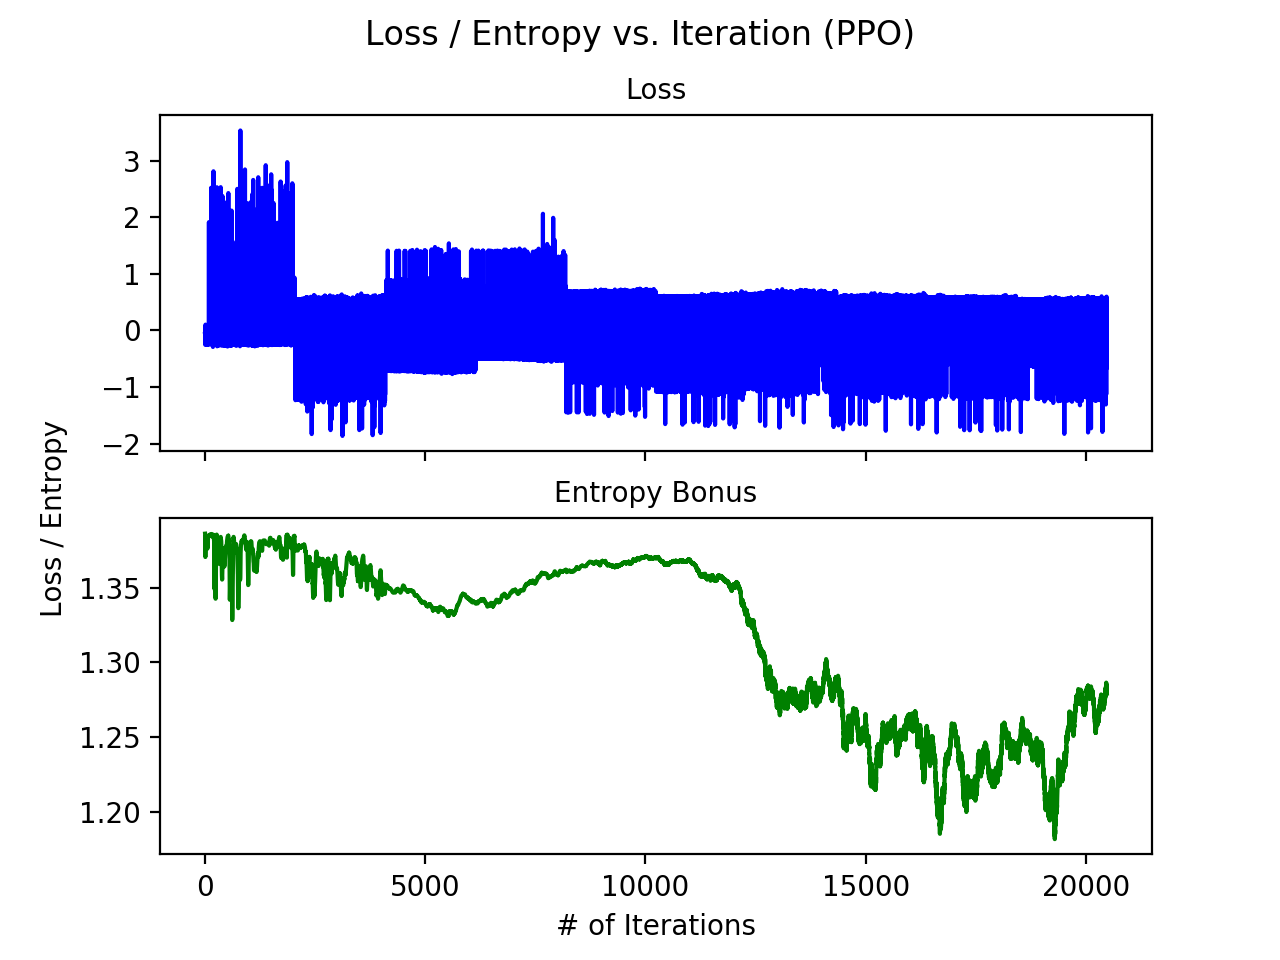
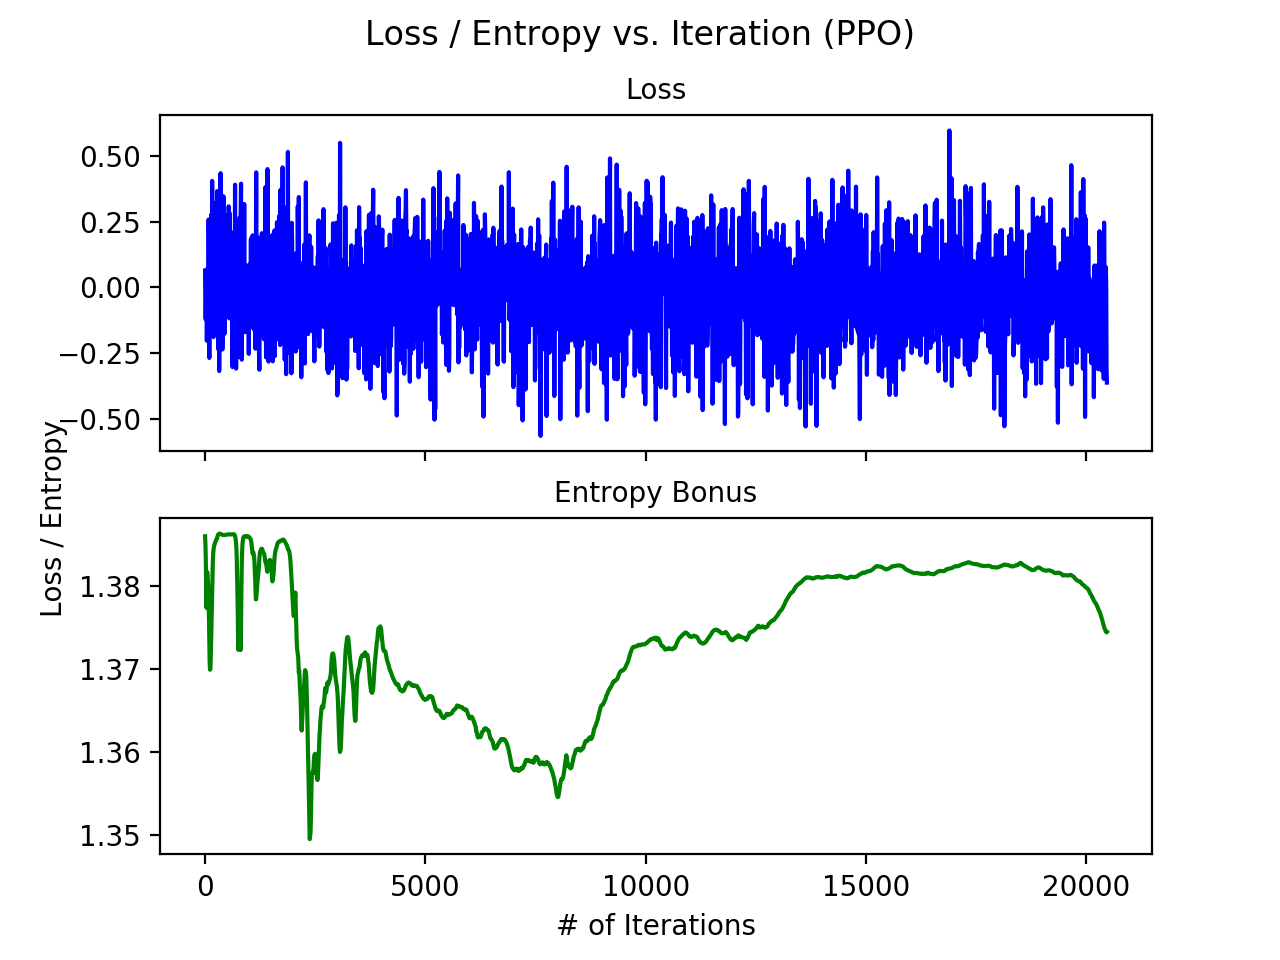
last ppo edits

diff --git a/final/team1_written_report.tex b/final/team1_written_report.tex
@@ -793,7 +793,7 @@ For the discrete version of REINFORCE we chose the popular BreakoutNoFrameskip-v
 This implementation also did not include some optimizations such as adding a baseline, which we hope to implement in the future to see better results.
 
 \subsection{Discrete PPO}
-The discrete PPO agent as implemented was unable to learn and achieve an acceptable score when trained and exercised in the BreakoutNoFrameskip-v4 environment. The average scores achieved by the agent consistently bounced between 0 and 0.7, with an average of approximately 0.3. Its performance was flat and displayed no improvements even after training more than 20,000 iterations, as can be seen in the typical training reward plot in Figure \ref{fig:PPOTypicalTrainRewardBreakout}. An examination of loss and entropy during and between the model updates did reveal a couple of unusual behaviors, as depicted in Figure \ref{fig:PPOTypicalTrainLossEntropyBreakout}. In general, the loss was low and very slowly decreasing, but a very noticeable pattern that correlates with the length of each horizon (or batch size) emerged. This artifact will need to be investigated further in the future. Entropy also slowly decreases with time, as expected, but there is a noticeable "hump" around iteration 10,000. The entropy bonus is used by the agent to balance exploration with exploitation. The shape of this entropy plot might indicate that it is still mostly in the exploration stage.
+The discrete PPO agent as implemented was unable to learn and achieve an acceptable score when trained and exercised in the BreakoutNoFrameskip-v4 environment. The average scores achieved by the agent consistently bounced between 0 and 1, with an average of approximately 0.3. Its performance was flat and displayed no improvements even after training more than 20,000 iterations, as can be seen in the typical training reward plot in Figure \ref{fig:PPOTypicalTrainRewardBreakout}. An examination of loss and entropy during and between the model updates did reveal a couple of unusual behaviors, as depicted in Figure \ref{fig:PPOTypicalTrainLossEntropyBreakout}. In general, the loss was low, noisy and flat, but a very slight pattern that correlates with the length of each horizon (or batch size) emerged. This artifact will need to be investigated further in the future. Entropy also slowly decreases with time, as expected, but then there is a noticeable jump starting around iteration 8,500. The entropy bonus is used by the agent to balance exploration with exploitation. The shape of this entropy plot might indicate that it is still mostly in the exploration stage.
 
 \begin{figure}[htbp]
 \centerline{\includegraphics[scale=0.5]{PPO_Train_Reward_Plot_Breakout_Typical.png}}
